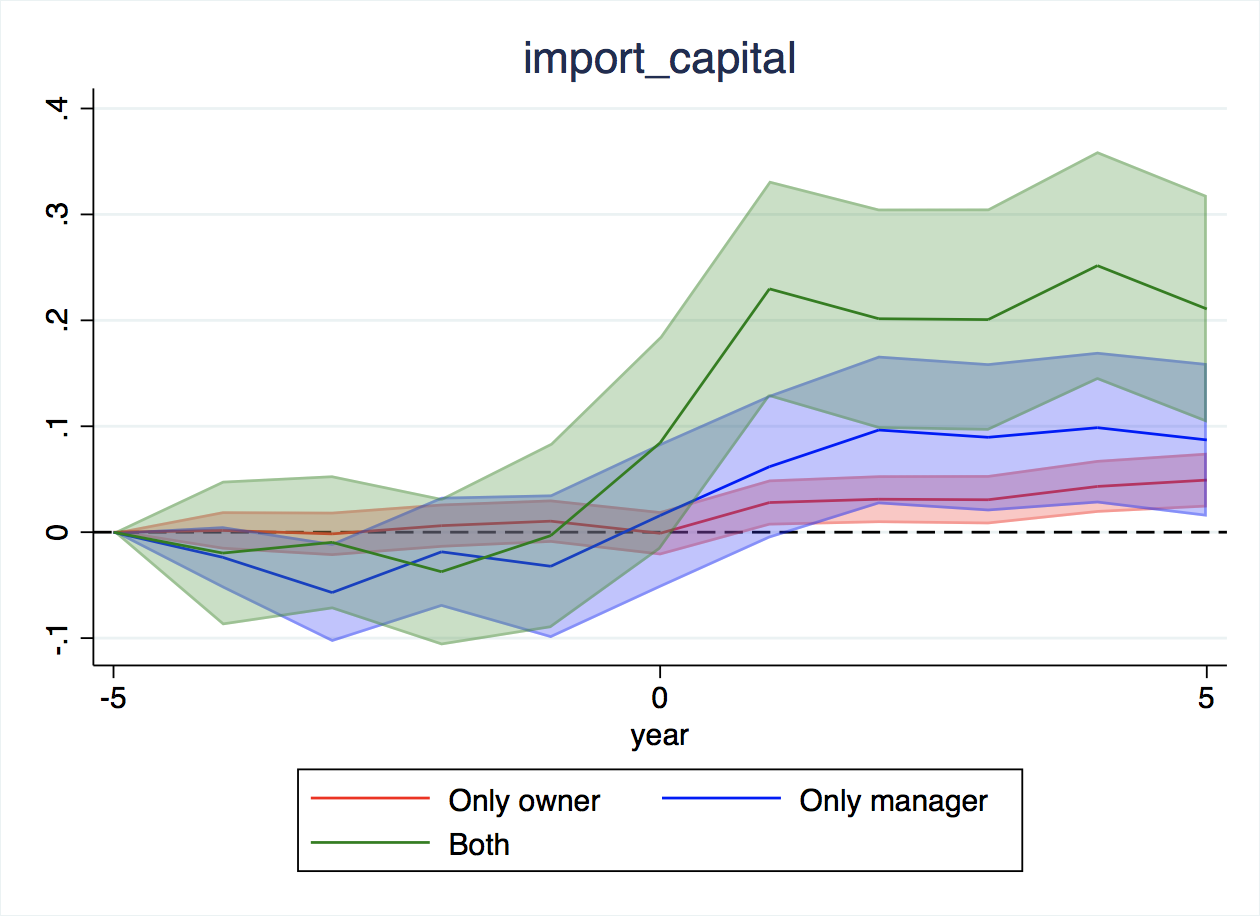
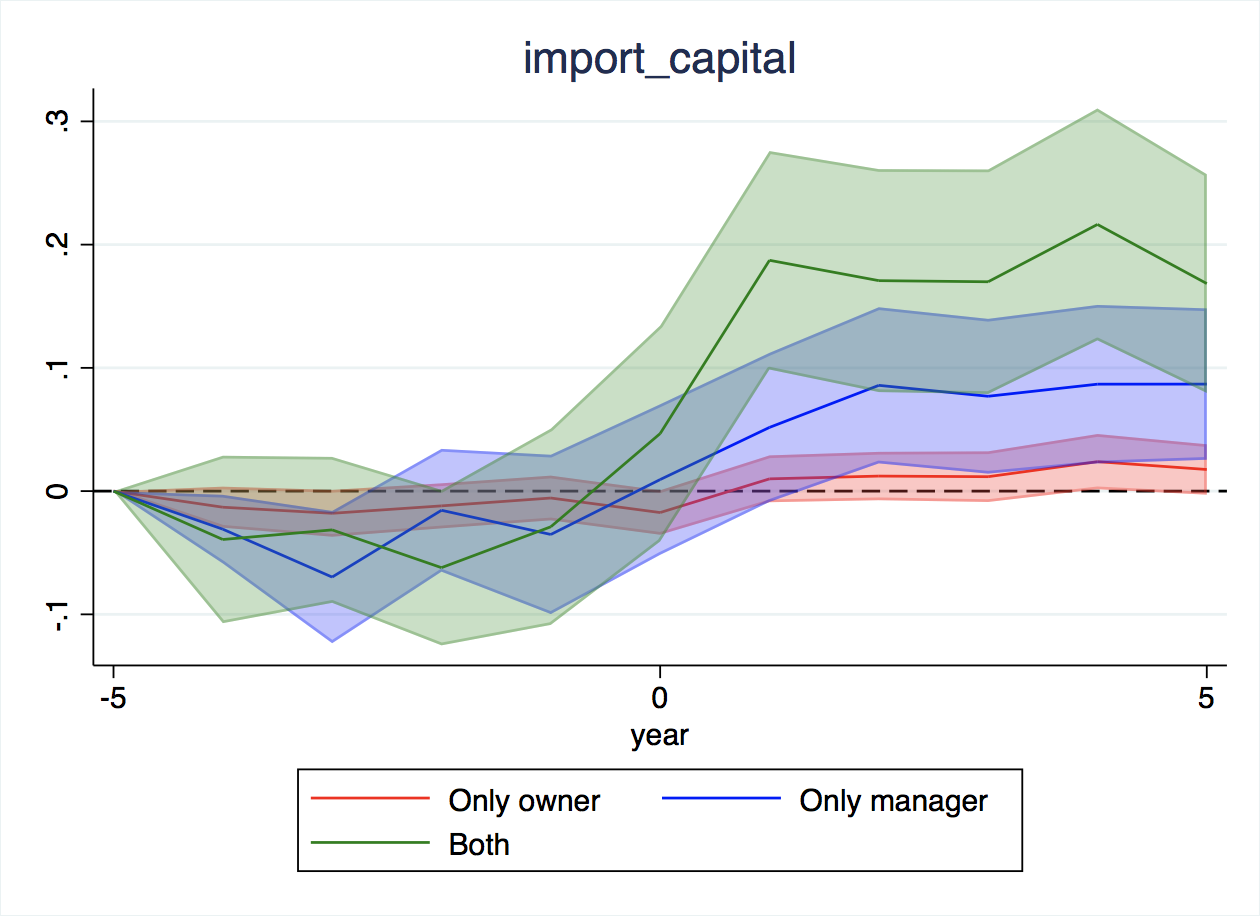
Revert "Censorize instead of winsorize event study. Evidence of preselection for exports, not for imports."
This reverts commit 23583d62a0b957da92675ccfa01b7334b4302a12.

diff --git a/output/table/event_study.tex b/output/table/event_study.tex
@@ -2,71 +2,71 @@
  & (1) & (2) & (3) \\
 VARIABLES & Dexport & Dimport\_capital & Dimport\_material \\ \hline
  &  &  &  \\
-only\_owner\_96 & 0.039** & 0.002 & 0.035** \\
- & (0.016) & (0.009) & (0.014) \\
-only\_owner\_97 & 0.035*** & -0.002 & 0.029** \\
- & (0.013) & (0.011) & (0.014) \\
-only\_owner\_98 & 0.021* & 0.006 & 0.034** \\
- & (0.012) & (0.011) & (0.013) \\
-only\_owner\_99 & 0.028** & 0.010 & 0.016 \\
- & (0.014) & (0.010) & (0.013) \\
-only\_owner\_100 & 0.018 & -0.001 & 0.008 \\
- & (0.013) & (0.011) & (0.013) \\
-only\_owner\_101 & 0.046*** & 0.028** & 0.045*** \\
- & (0.014) & (0.011) & (0.014) \\
-only\_owner\_102 & 0.052*** & 0.031*** & 0.046*** \\
- & (0.014) & (0.012) & (0.015) \\
-only\_owner\_103 & 0.060*** & 0.031*** & 0.041*** \\
- & (0.014) & (0.012) & (0.015) \\
-only\_owner\_104 & 0.054*** & 0.043*** & 0.056*** \\
- & (0.015) & (0.013) & (0.016) \\
-only\_owner\_105 & 0.067*** & 0.049*** & 0.050*** \\
- & (0.015) & (0.013) & (0.016) \\
-only\_manager\_96 & 0.123** & -0.024 & 0.079 \\
- & (0.056) & (0.015) & (0.053) \\
-only\_manager\_97 & 0.126** & -0.057** & 0.054 \\
- & (0.051) & (0.024) & (0.041) \\
-only\_manager\_98 & 0.109** & -0.018 & 0.039 \\
- & (0.046) & (0.026) & (0.042) \\
-only\_manager\_99 & 0.103** & -0.032 & 0.065 \\
- & (0.051) & (0.035) & (0.050) \\
-only\_manager\_100 & 0.110** & 0.016 & 0.080 \\
- & (0.052) & (0.035) & (0.049) \\
-only\_manager\_101 & 0.139** & 0.062* & 0.138*** \\
- & (0.054) & (0.035) & (0.050) \\
-only\_manager\_102 & 0.159*** & 0.097*** & 0.169*** \\
- & (0.055) & (0.036) & (0.050) \\
-only\_manager\_103 & 0.172*** & 0.090** & 0.157*** \\
- & (0.054) & (0.036) & (0.050) \\
-only\_manager\_104 & 0.179*** & 0.099*** & 0.189*** \\
- & (0.055) & (0.036) & (0.052) \\
-only\_manager\_105 & 0.179*** & 0.087** & 0.186*** \\
- & (0.055) & (0.037) & (0.051) \\
-both\_96 & -0.010 & -0.020 & 0.005 \\
- & (0.053) & (0.035) & (0.053) \\
-both\_97 & -0.004 & -0.010 & -0.008 \\
- & (0.043) & (0.032) & (0.047) \\
-both\_98 & -0.024 & -0.037 & 0.008 \\
- & (0.042) & (0.035) & (0.051) \\
-both\_99 & 0.041 & -0.003 & 0.082 \\
- & (0.050) & (0.045) & (0.063) \\
-both\_100 & 0.010 & 0.084 & 0.093 \\
- & (0.051) & (0.051) & (0.066) \\
-both\_101 & 0.172*** & 0.230*** & 0.288*** \\
- & (0.052) & (0.052) & (0.068) \\
-both\_102 & 0.183*** & 0.202*** & 0.252*** \\
- & (0.053) & (0.053) & (0.069) \\
-both\_103 & 0.198*** & 0.201*** & 0.267*** \\
- & (0.054) & (0.054) & (0.069) \\
-both\_104 & 0.191*** & 0.252*** & 0.292*** \\
- & (0.055) & (0.055) & (0.072) \\
-both\_105 & 0.179*** & 0.211*** & 0.235*** \\
- & (0.055) & (0.055) & (0.070) \\
+only\_owner\_96 & 0.019 & -0.013 & 0.010 \\
+ & (0.014) & (0.008) & (0.012) \\
+only\_owner\_97 & 0.009 & -0.018* & 0.000 \\
+ & (0.011) & (0.010) & (0.013) \\
+only\_owner\_98 & -0.005 & -0.012 & 0.003 \\
+ & (0.010) & (0.009) & (0.011) \\
+only\_owner\_99 & 0.002 & -0.006 & -0.013 \\
+ & (0.011) & (0.009) & (0.011) \\
+only\_owner\_100 & -0.008 & -0.017* & -0.022** \\
+ & (0.010) & (0.009) & (0.011) \\
+only\_owner\_101 & 0.017* & 0.010 & 0.014 \\
+ & (0.011) & (0.010) & (0.011) \\
+only\_owner\_102 & 0.023** & 0.012 & 0.014 \\
+ & (0.011) & (0.010) & (0.012) \\
+only\_owner\_103 & 0.030** & 0.012 & 0.007 \\
+ & (0.012) & (0.010) & (0.013) \\
+only\_owner\_104 & 0.024** & 0.024** & 0.023* \\
+ & (0.012) & (0.011) & (0.014) \\
+only\_owner\_105 & 0.031*** & 0.018* & 0.017 \\
+ & (0.011) & (0.010) & (0.013) \\
+only\_manager\_96 & 0.071 & -0.031** & 0.056 \\
+ & (0.045) & (0.014) & (0.049) \\
+only\_manager\_97 & 0.058 & -0.070** & 0.008 \\
+ & (0.040) & (0.027) & (0.032) \\
+only\_manager\_98 & 0.036 & -0.016 & 0.017 \\
+ & (0.031) & (0.025) & (0.035) \\
+only\_manager\_99 & 0.052 & -0.035 & 0.033 \\
+ & (0.037) & (0.033) & (0.044) \\
+only\_manager\_100 & 0.052 & 0.009 & 0.048 \\
+ & (0.035) & (0.031) & (0.043) \\
+only\_manager\_101 & 0.079** & 0.052* & 0.104** \\
+ & (0.038) & (0.031) & (0.044) \\
+only\_manager\_102 & 0.097*** & 0.086*** & 0.129*** \\
+ & (0.038) & (0.032) & (0.044) \\
+only\_manager\_103 & 0.108*** & 0.077** & 0.114*** \\
+ & (0.037) & (0.032) & (0.044) \\
+only\_manager\_104 & 0.116*** & 0.087*** & 0.153*** \\
+ & (0.038) & (0.033) & (0.046) \\
+only\_manager\_105 & 0.114*** & 0.087*** & 0.135*** \\
+ & (0.036) & (0.031) & (0.043) \\
+both\_96 & -0.019 & -0.039 & -0.035 \\
+ & (0.046) & (0.035) & (0.045) \\
+both\_97 & -0.016 & -0.031 & -0.052 \\
+ & (0.037) & (0.030) & (0.038) \\
+both\_98 & -0.035 & -0.062* & -0.036 \\
+ & (0.034) & (0.032) & (0.041) \\
+both\_99 & 0.011 & -0.029 & 0.033 \\
+ & (0.042) & (0.041) & (0.054) \\
+both\_100 & -0.008 & 0.047 & 0.040 \\
+ & (0.042) & (0.045) & (0.056) \\
+both\_101 & 0.145*** & 0.187*** & 0.223*** \\
+ & (0.044) & (0.045) & (0.058) \\
+both\_102 & 0.155*** & 0.171*** & 0.198*** \\
+ & (0.044) & (0.046) & (0.059) \\
+both\_103 & 0.170*** & 0.170*** & 0.230*** \\
+ & (0.045) & (0.046) & (0.060) \\
+both\_104 & 0.158*** & 0.216*** & 0.232*** \\
+ & (0.046) & (0.048) & (0.062) \\
+both\_105 & 0.177*** & 0.168*** & 0.192*** \\
+ & (0.044) & (0.045) & (0.058) \\
  &  &  &  \\
-Observations & 615,322 & 634,207 & 596,164 \\
-R-squared & 0.386 & 0.366 & 0.379 \\
+Observations & 619,820 & 638,357 & 599,514 \\
+R-squared & 0.383 & 0.363 & 0.377 \\
 Firm-year FE & YES & YES & YES \\
 Country-year FE & YES & YES & YES \\
 Firm-country FE & YES & YES & YES \\
- Mean & 0.0166 & 0.0113 & 0.0194 \\ \hline
+ Mean & 0.0169 & 0.0115 & 0.0195 \\ \hline
 \end{tabular}
